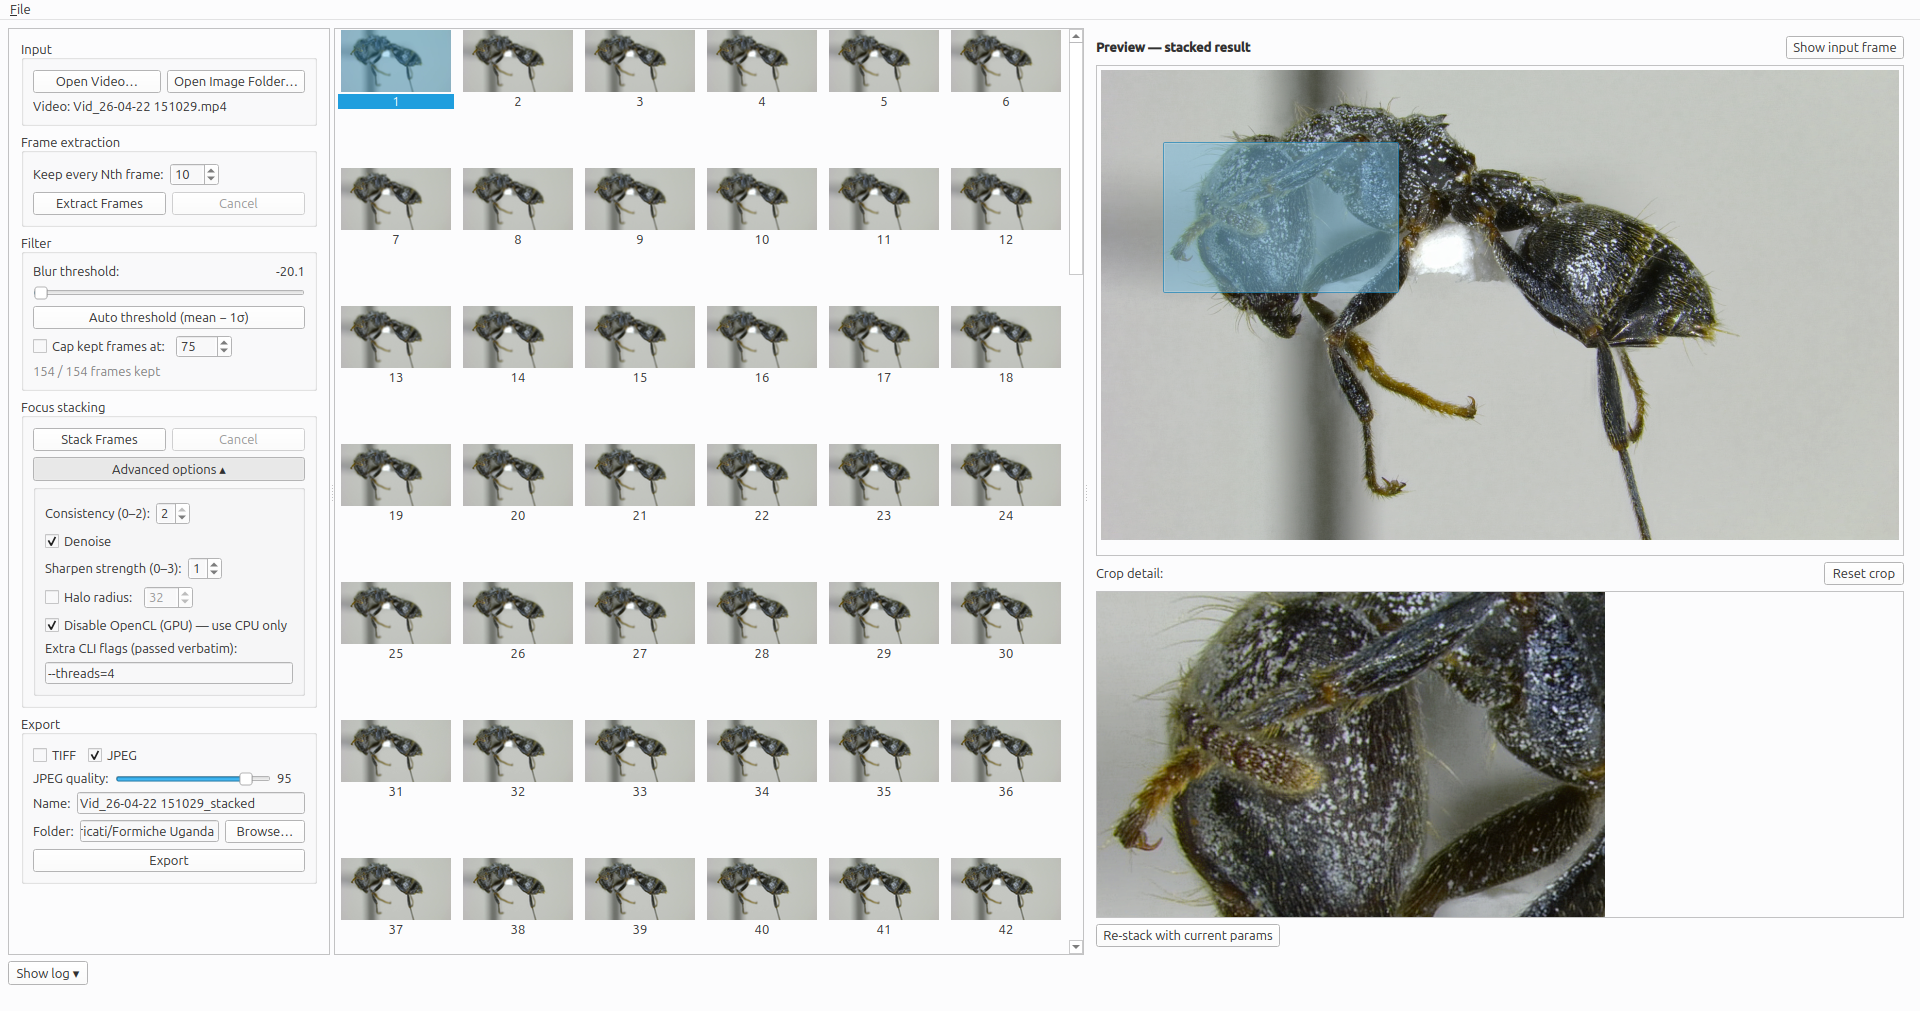
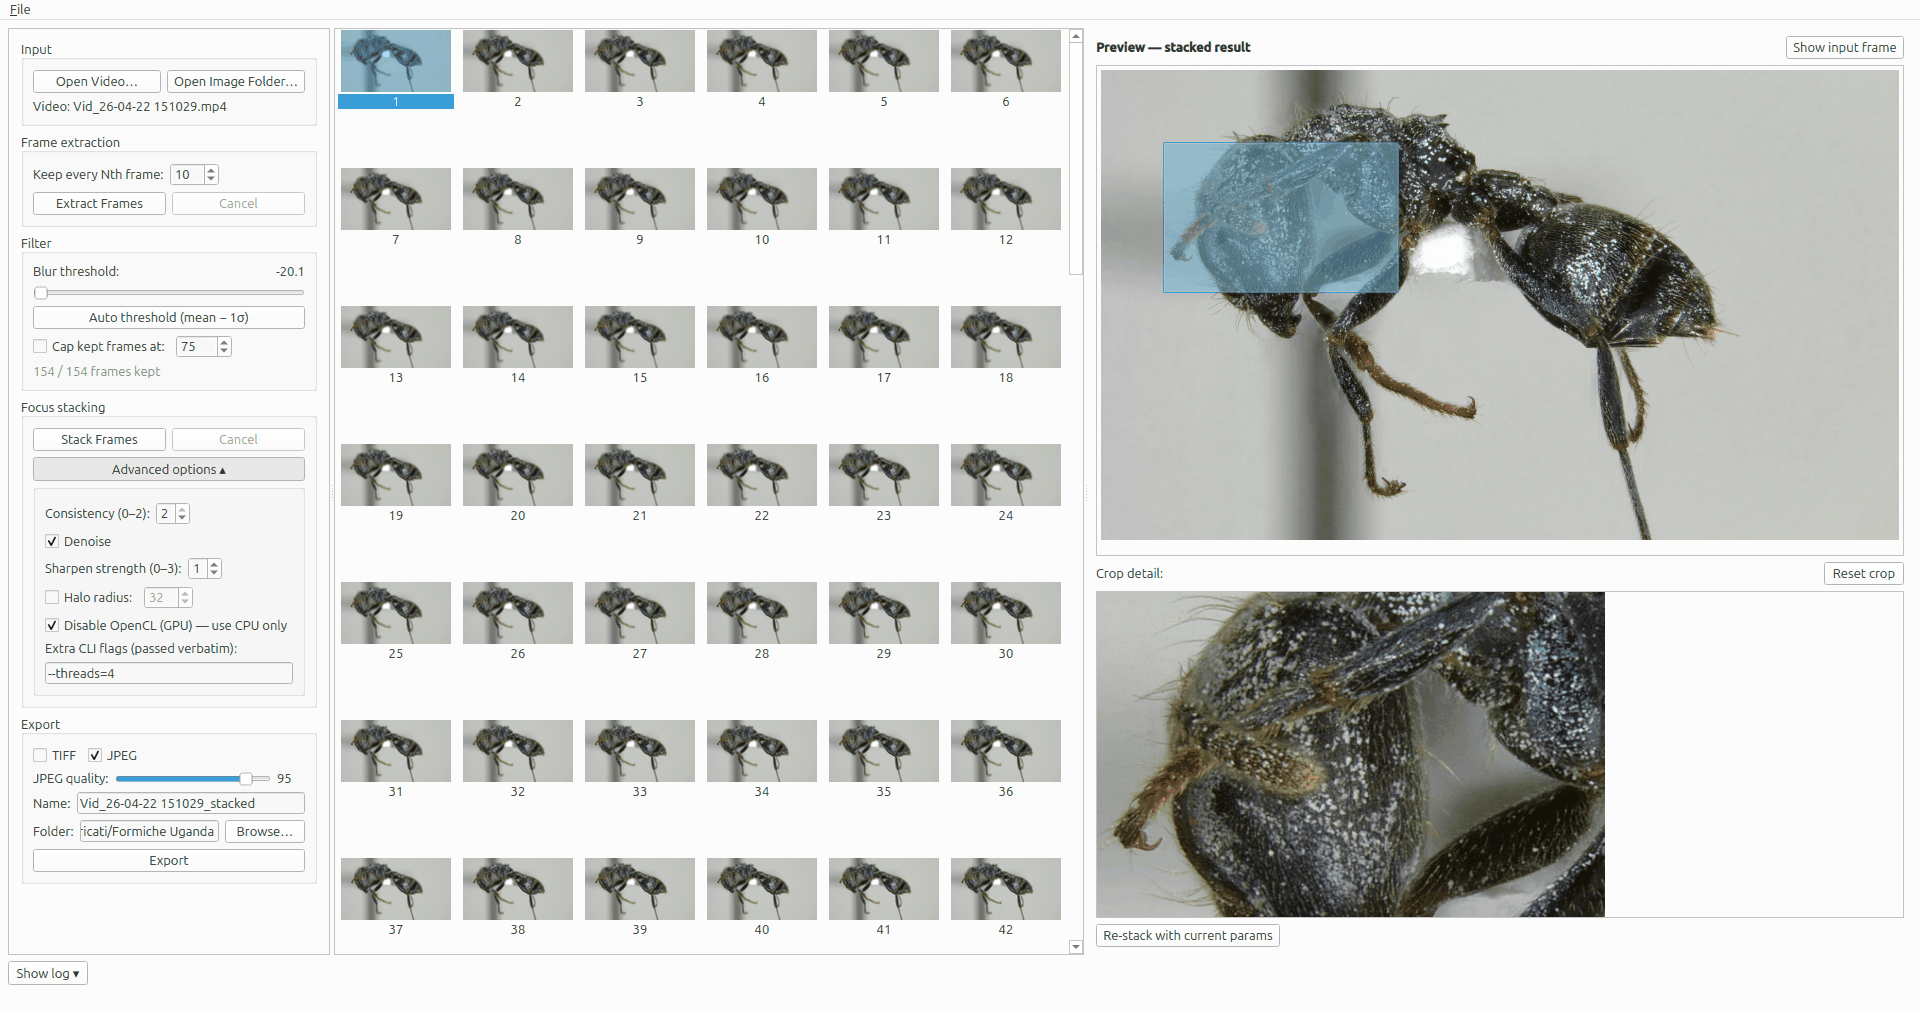
ci: GitHub Actions workflow + README badges + compressed screenshot
- .github/workflows/ci.yml: lint with ruff and run the full test suite
  (76 tests including the headless-smoke MainWindow tests) against
  Python 3.10 and 3.12 on every push to main, every tag, and every
  pull request. Installs the XCB/EGL libs PyQt6 needs under
  QT_QPA_PLATFORM=offscreen plus ffmpeg for the FrameExtractor tests.
  Video-dependent tests self-skip on CI because the Uganda clips live
  only on the dev laptop.
- README: CI status badge and an MIT badge at the top.
- assets/screenshot.png: 1192 KiB -> 456 KiB via 256-color palette
  quantization (Pillow adaptive, no dither). Visually indistinguishable
  from the original on GitHub's rendering — verified.

diff --git a/README.md b/README.md
@@ -1,5 +1,8 @@
 # StackAnt
 
+[![CI](https://github.com/Camponotus-vagus/StackAnt/actions/workflows/ci.yml/badge.svg)](https://github.com/Camponotus-vagus/StackAnt/actions/workflows/ci.yml)
+[![License: MIT](https://img.shields.io/badge/License-MIT-yellow.svg)](LICENSE)
+
 A focus-stacking GUI for macro entomology photography.
 
 Record a short video of a specimen while rotating the lens's focus ring
